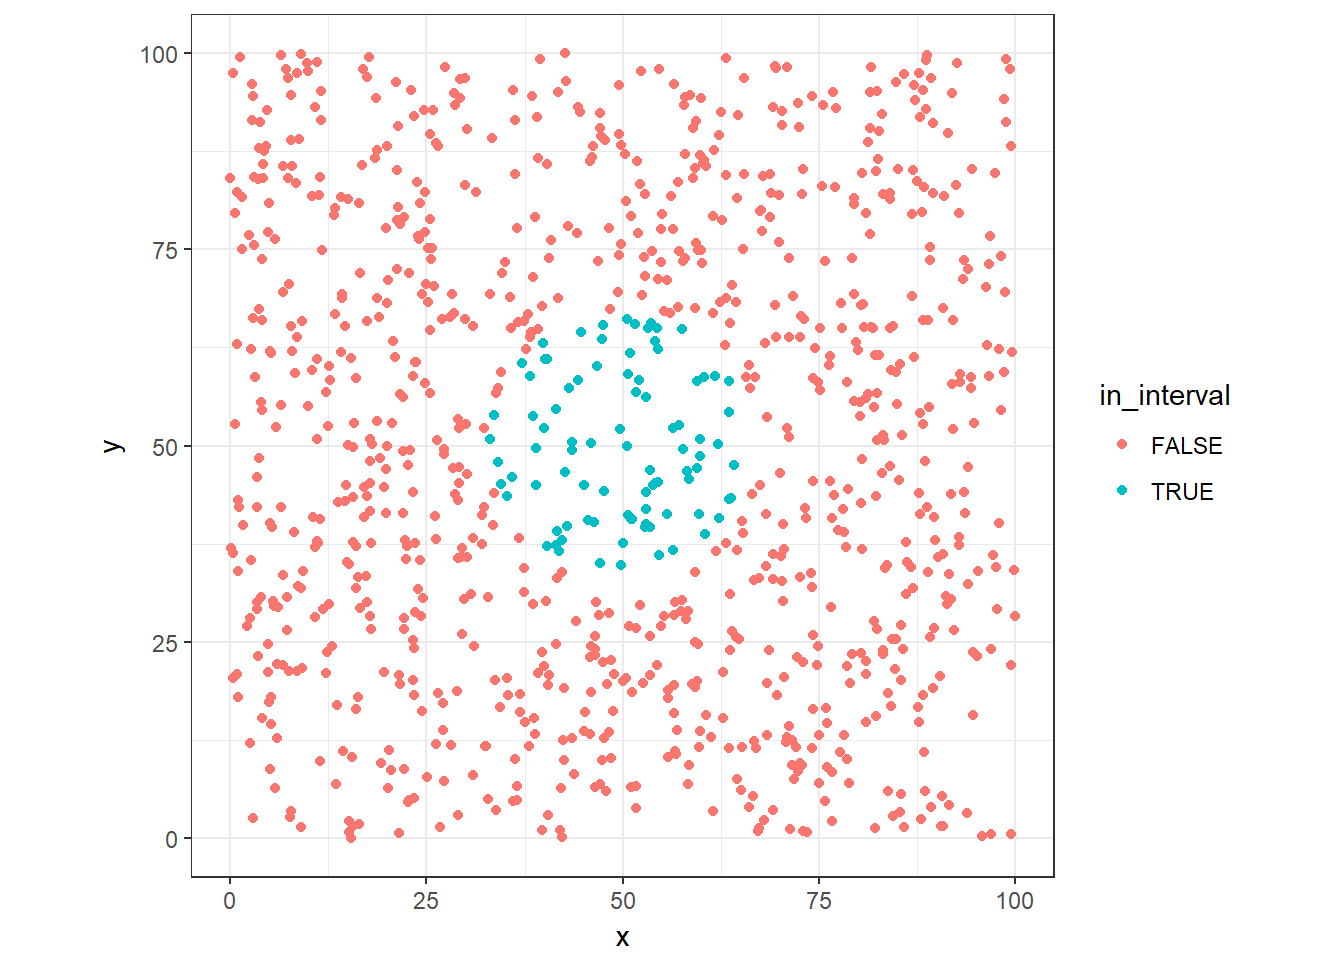
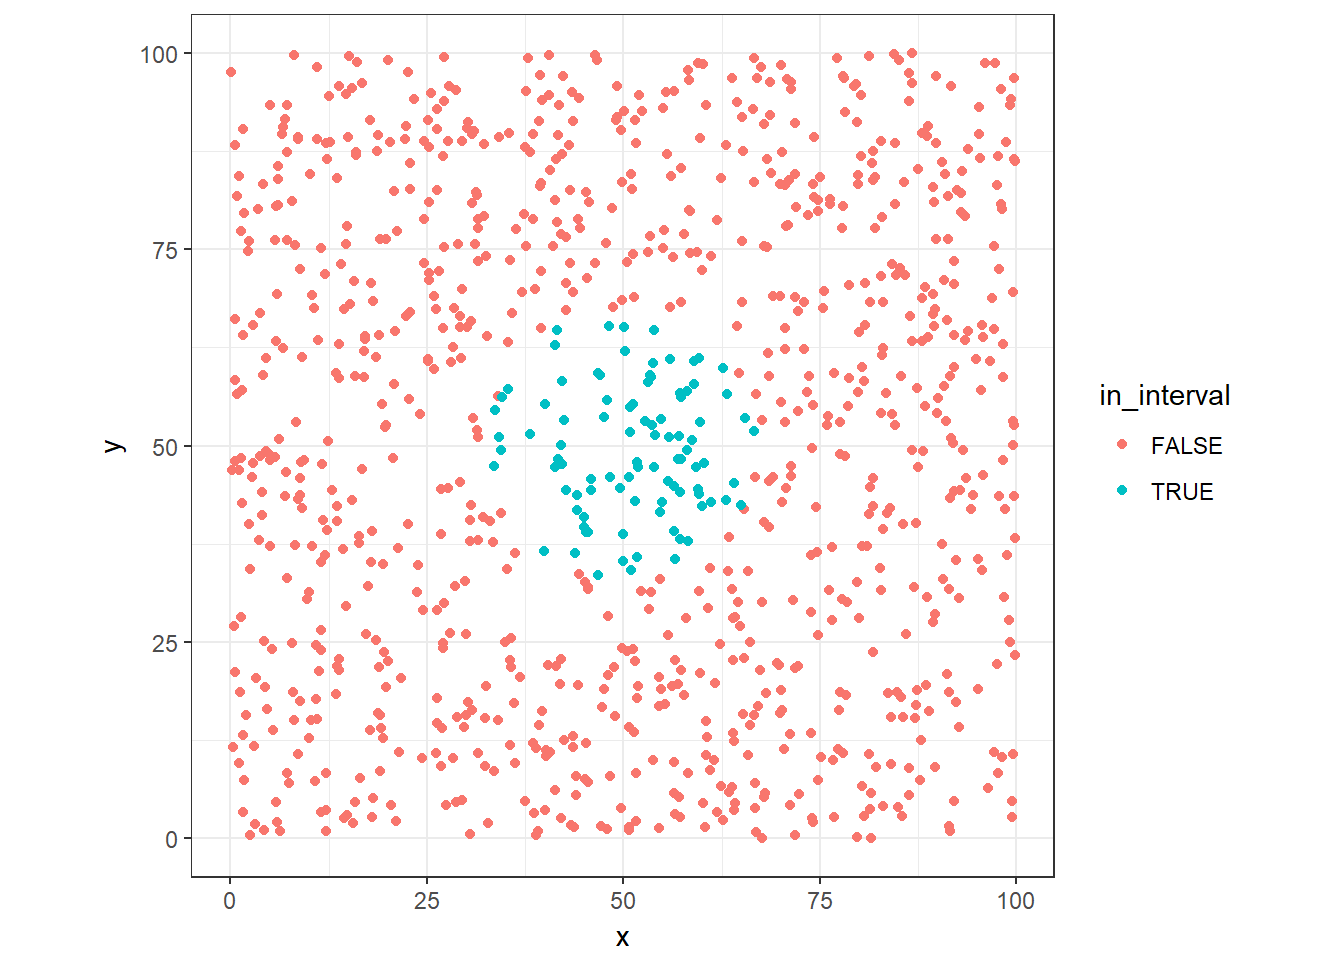
I can't with disqus!

diff --git a/public/2018/01/curse-of-dimensionalityrmd/index.html b/public/2018/01/curse-of-dimensionalityrmd/index.html
@@ -273,7 +273,7 @@ ggplot(dt, aes(x=x, y=y)) + geom_point() + coord_fixed(ratio = 1) + theme_bw()</
 <pre class="r"><code>x_dist &lt;- quantile(x=dt$x,probs = .1)
 x_dist</code></pre>
 <pre><code>##      10% 
-## 8.650832</code></pre>
+## 9.170853</code></pre>
 <p>We can see that in one dimension the size of the range necessary to get 10% of the data points are around 10% of this dimensions (uniform distributed)</p>
 <pre class="r"><code># mark the points in this range
 dt %&gt;%
@@ -295,11 +295,11 @@ ggplot(dt, aes(x=x, y=y, colour=in_interval)) +
 dt %&gt;%
   filter(in_interval==T) %&gt;%
   nrow()</code></pre>
-<pre><code>## [1] 94</code></pre>
+<pre><code>## [1] 89</code></pre>
 </div>
 <div id="two-dimension" class="section level2">
 <h2>Two Dimension</h2>
-<p>Now, lets see the case in two dimensions, first we’ll use the same interval found in one dimension case: 8.650832, but in this case, we need to check points around <code>(x=50, y=50)</code>.</p>
+<p>Now, lets see the case in two dimensions, first we’ll use the same interval found in one dimension case: 9.1708529, but in this case, we need to check points around <code>(x=50, y=50)</code>.</p>
 <pre class="r"><code>dt %&gt;%
   mutate(
     in_interval = case_when(
@@ -321,8 +321,8 @@ dt %&gt;%
 sel_points_pct &lt;- sel_points/total_points
 
 sel_points</code></pre>
-<pre><code>## [1] 20</code></pre>
-<p>In fact, with the new distance, we can only reach 2 % of the data points adding one dimension. Can we find how much be the size of the radius to get 10% of the points?</p>
+<pre><code>## [1] 34</code></pre>
+<p>In fact, with the new distance, we can only reach 3.4 % of the data points adding one dimension. Can we find how much be the size of the radius to get 10% of the points?</p>
 <pre class="r"><code># percents 
 dists &lt;- 1:100
 
@@ -352,7 +352,7 @@ print(twoDim10pct)</code></pre>
 <pre><code>## # A tibble: 1 x 3
 ##    dist points    pct
 ##   &lt;int&gt;  &lt;int&gt;  &lt;dbl&gt;
-## 1    17     89 0.0890</code></pre>
+## 1    17     94 0.0940</code></pre>
 <p>The distance to get 10% of data points are 17 in size, about twice the original range in one dimension.</p>
 <pre class="r"><code>dt %&gt;%
   mutate(
@@ -411,9 +411,9 @@ multDimCases %&gt;%
 ##   &lt;fctr&gt;     &lt;int&gt;
 ## 1 d1             4
 ## 2 d2            17
-## 3 d3            29
-## 4 d4            36
-## 5 d5            44</code></pre>
+## 3 d3            30
+## 4 d4            38
+## 5 d5            45</code></pre>
 </div>
 <div id="conclusion" class="section level2">
 <h2>Conclusion</h2>

diff --git a/content/post/2018-01-15-curse-of-dimensionality.html b/content/post/2018-01-15-curse-of-dimensionality.html
@@ -43,7 +43,7 @@ ggplot(dt, aes(x=x, y=y)) + geom_point() + coord_fixed(ratio = 1) + theme_bw()</
 <pre class="r"><code>x_dist &lt;- quantile(x=dt$x,probs = .1)
 x_dist</code></pre>
 <pre><code>##      10% 
-## 8.650832</code></pre>
+## 9.170853</code></pre>
 <p>We can see that in one dimension the size of the range necessary to get 10% of the data points are around 10% of this dimensions (uniform distributed)</p>
 <pre class="r"><code># mark the points in this range
 dt %&gt;%
@@ -65,11 +65,11 @@ ggplot(dt, aes(x=x, y=y, colour=in_interval)) +
 dt %&gt;%
   filter(in_interval==T) %&gt;%
   nrow()</code></pre>
-<pre><code>## [1] 94</code></pre>
+<pre><code>## [1] 89</code></pre>
 </div>
 <div id="two-dimension" class="section level2">
 <h2>Two Dimension</h2>
-<p>Now, lets see the case in two dimensions, first we’ll use the same interval found in one dimension case: 8.650832, but in this case, we need to check points around <code>(x=50, y=50)</code>.</p>
+<p>Now, lets see the case in two dimensions, first we’ll use the same interval found in one dimension case: 9.1708529, but in this case, we need to check points around <code>(x=50, y=50)</code>.</p>
 <pre class="r"><code>dt %&gt;%
   mutate(
     in_interval = case_when(
@@ -91,8 +91,8 @@ dt %&gt;%
 sel_points_pct &lt;- sel_points/total_points
 
 sel_points</code></pre>
-<pre><code>## [1] 20</code></pre>
-<p>In fact, with the new distance, we can only reach 2 % of the data points adding one dimension. Can we find how much be the size of the radius to get 10% of the points?</p>
+<pre><code>## [1] 34</code></pre>
+<p>In fact, with the new distance, we can only reach 3.4 % of the data points adding one dimension. Can we find how much be the size of the radius to get 10% of the points?</p>
 <pre class="r"><code># percents 
 dists &lt;- 1:100
 
@@ -122,7 +122,7 @@ print(twoDim10pct)</code></pre>
 <pre><code>## # A tibble: 1 x 3
 ##    dist points    pct
 ##   &lt;int&gt;  &lt;int&gt;  &lt;dbl&gt;
-## 1    17     89 0.0890</code></pre>
+## 1    17     94 0.0940</code></pre>
 <p>The distance to get 10% of data points are 17 in size, about twice the original range in one dimension.</p>
 <pre class="r"><code>dt %&gt;%
   mutate(
@@ -181,9 +181,9 @@ multDimCases %&gt;%
 ##   &lt;fctr&gt;     &lt;int&gt;
 ## 1 d1             4
 ## 2 d2            17
-## 3 d3            29
-## 4 d4            36
-## 5 d5            44</code></pre>
+## 3 d3            30
+## 4 d4            38
+## 5 d5            45</code></pre>
 </div>
 <div id="conclusion" class="section level2">
 <h2>Conclusion</h2>

diff --git a/content/post/2018-01-16-ploting-your-mtb-track-with-r.html b/content/post/2018-01-16-ploting-your-mtb-track-with-r.html
@@ -14,11 +14,11 @@ tags:
   - tcx
   - workout
 coverImage: /images/mtb_cover.jpg
-disqusIdentifier: rstatplottcxtrack
 metaAlignment: center
 slug: ploting-your-mtb-track-with-r
 thumbnailImage: images/fitbit_tn.jpg
 thumbnailImagePosition: left
+disqusIdentifier: rstatplottcxtrack
 ---
 
 
